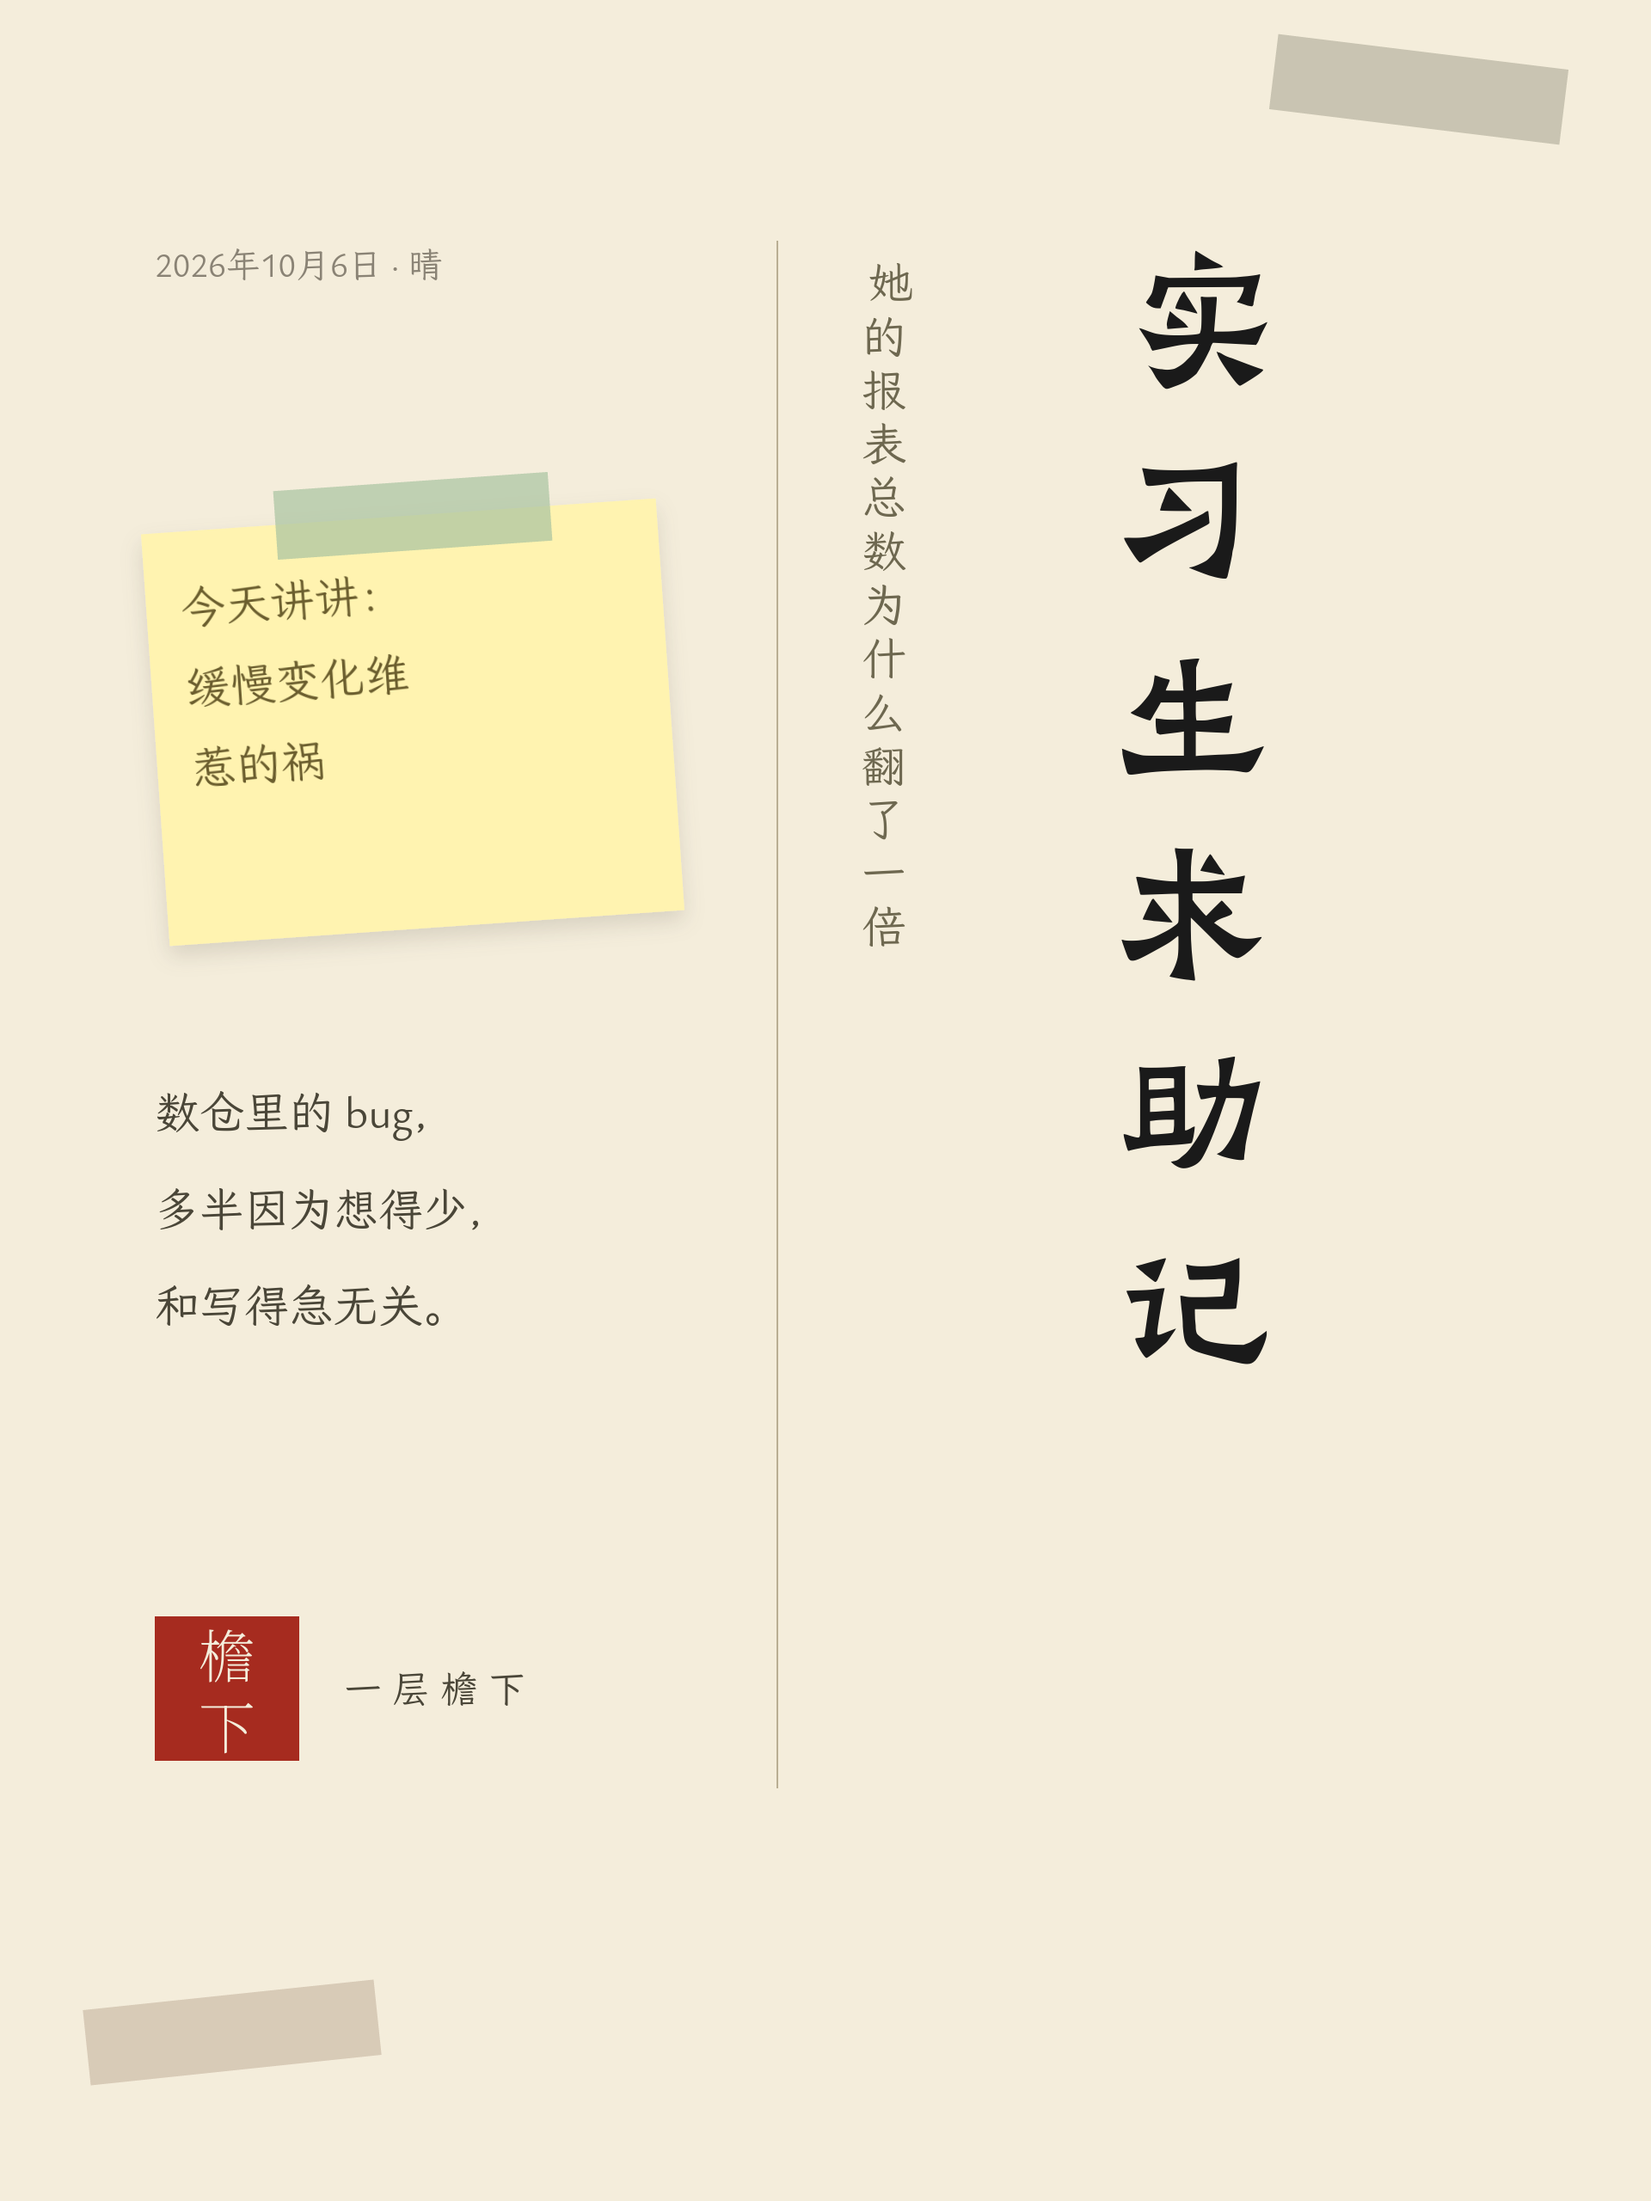
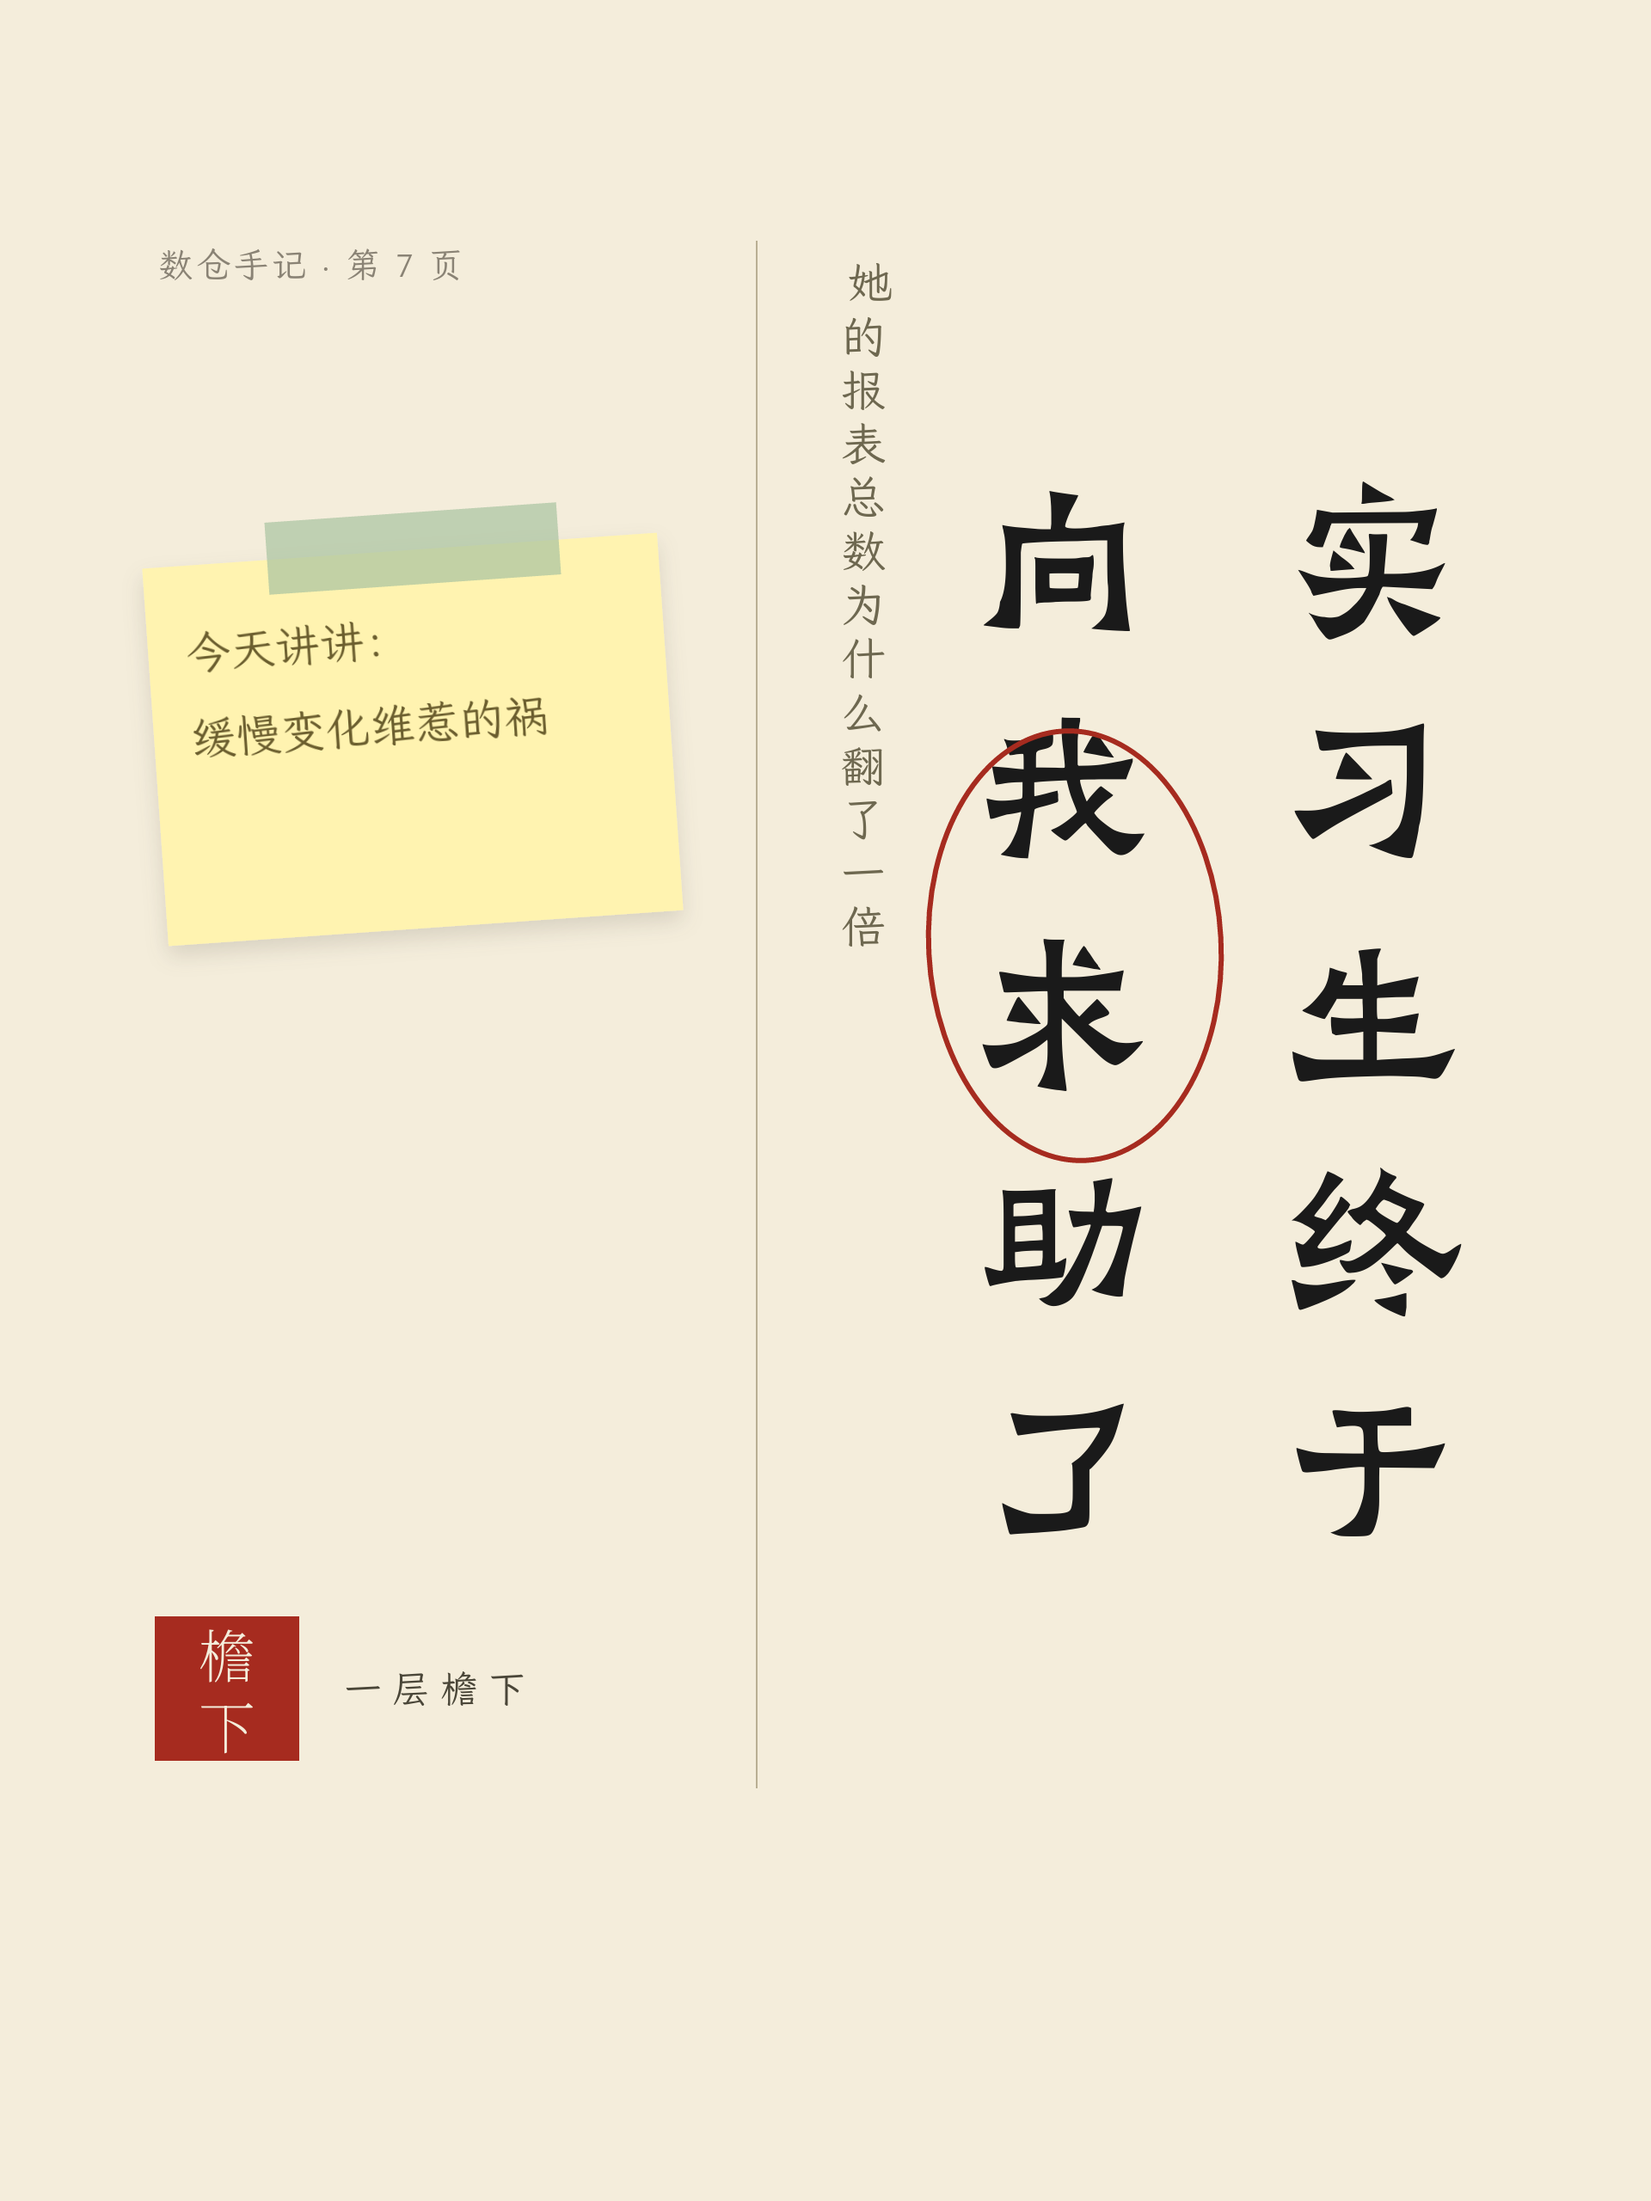
vault backup: 2026-10-06 23:36:12

diff --git a/output/xhs/封面组合实验/组合预览.md b/output/xhs/封面组合实验/组合预览.md
@@ -27,9 +27,14 @@ created: 2026-10-06
 
 ![[预览图/C_手账+红章宣纸.png]]
 
-## D · 融合二：竖排刀隶体大标题 + 手账道具
+## D′ · 竖排刀隶体 + 手账道具（定稿方向）
 
-以 07 为主体：右侧竖排刀隶体大标题，左侧放手账的便利贴、胶带、短句。
-07 的气质占七成，05 的手作感占三成。
+按 YouMind 里 Claude Fable 的建议修订：
+
+- 标题双列竖排「实习生终于 / 向我求助了」，右起，保住"终于"的故事感
+- 左侧只留一张便利贴，一条胶带真正压住它，字体 LXGW Bright
+- 删掉悬空胶带和左下引文，次级信息收敛
+- 「求助」上加手绘红圈，唯一从 05 继承的手作元素
+- 日期行改为「数仓手记 · 第 7 页」，期数累积出连载感
 
 ![[预览图/D_竖排刀隶体+手账道具.png]]
